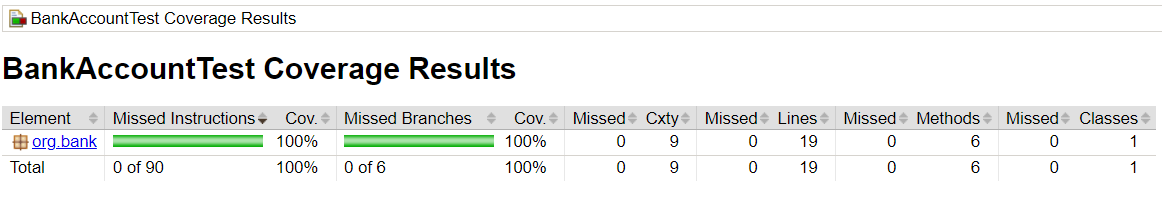
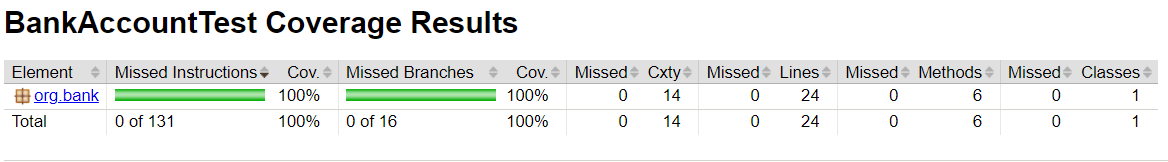
BankAccount NegativeInputs Refactor

diff --git a/src/main/java/org/bank/BankAccount.java b/src/main/java/org/bank/BankAccount.java
@@ -24,11 +24,16 @@ public class BankAccount {
 
     // Calculate the payment per month for a loan
     public double payment(double total_amount, double interest, int npayments){
+        if(total_amount < 0) throw new IllegalArgumentException("Amount cannot be negative");
+        if(interest < 0) throw new IllegalArgumentException("Interest cannot be negative");
+        if(npayments <= 0) throw new IllegalArgumentException("Number of payments cannot be negative");
         return total_amount*(interest*Math.pow((1+interest), npayments)/(Math.pow((1+interest), npayments)-1));
     }
 
     // Calculate the pending amount for a loan in a month
     public double pending (double amount, double inte, int npayments, int month){
+        if(amount < 0) throw new IllegalArgumentException("Amount cannot be negative");
+        if(month < 0) throw new IllegalArgumentException("Month cannot be negative");
         double res;
         if(month==0){
             res=amount;

diff --git a/src/test/java/org/bank/BankAccountTest.java b/src/test/java/org/bank/BankAccountTest.java
@@ -72,6 +72,7 @@ public class BankAccountTest {
     @CsvSource({
             "-10000, 0.001, 12",
             "10000, -0.001, 12",
+            "10000, 0.001, 0",
             "10000, 0.001, -12"
     })
     void Payment_NegativeInputs_ThrowsIllegalArgumentException(double amount, double inte, int npayments){
@@ -110,6 +111,7 @@ public class BankAccountTest {
     @CsvSource({
             "-10000, 0.001, 12, 2",
             "10000, -0.001, 12, 2",
+            "10000, 0.001, 0, 2",
             "10000, 0.001, -12, 2",
             "10000, 0.001, 12, -2"
     })
